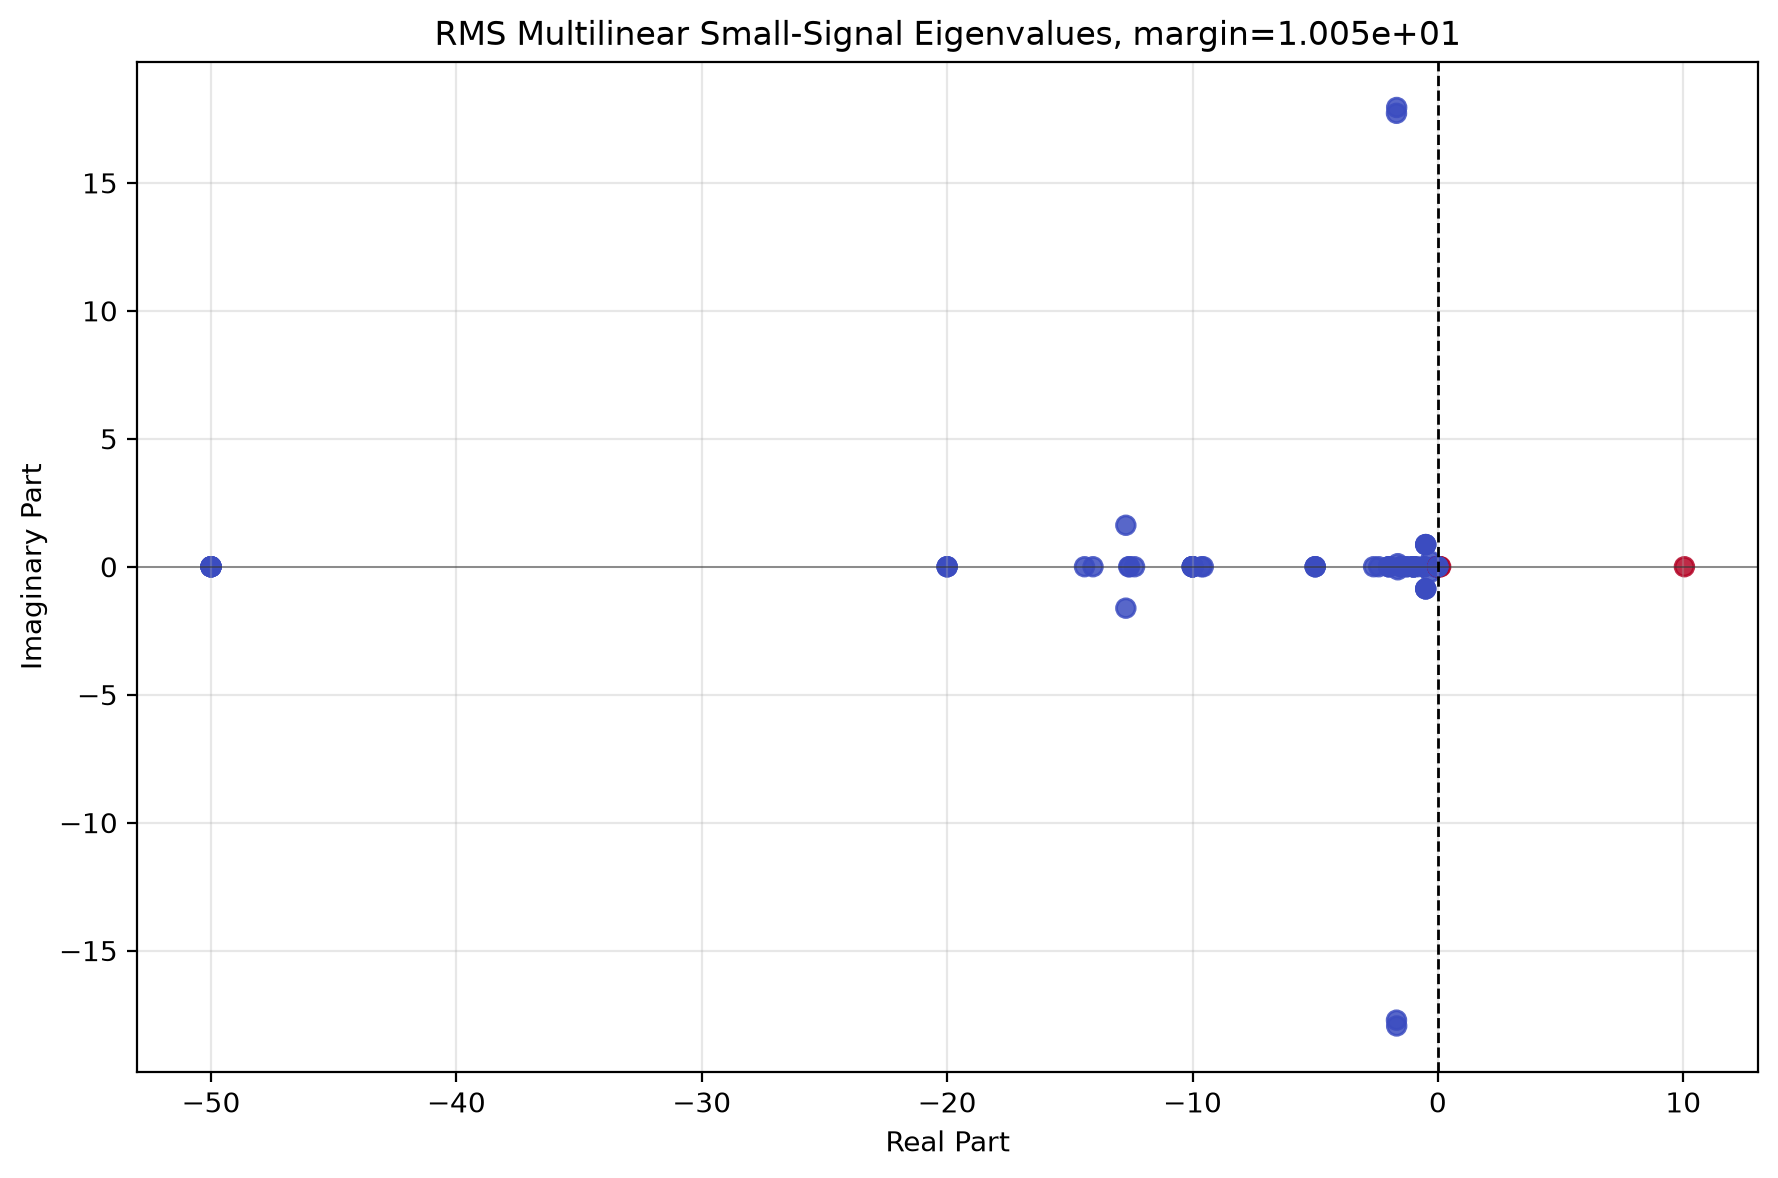
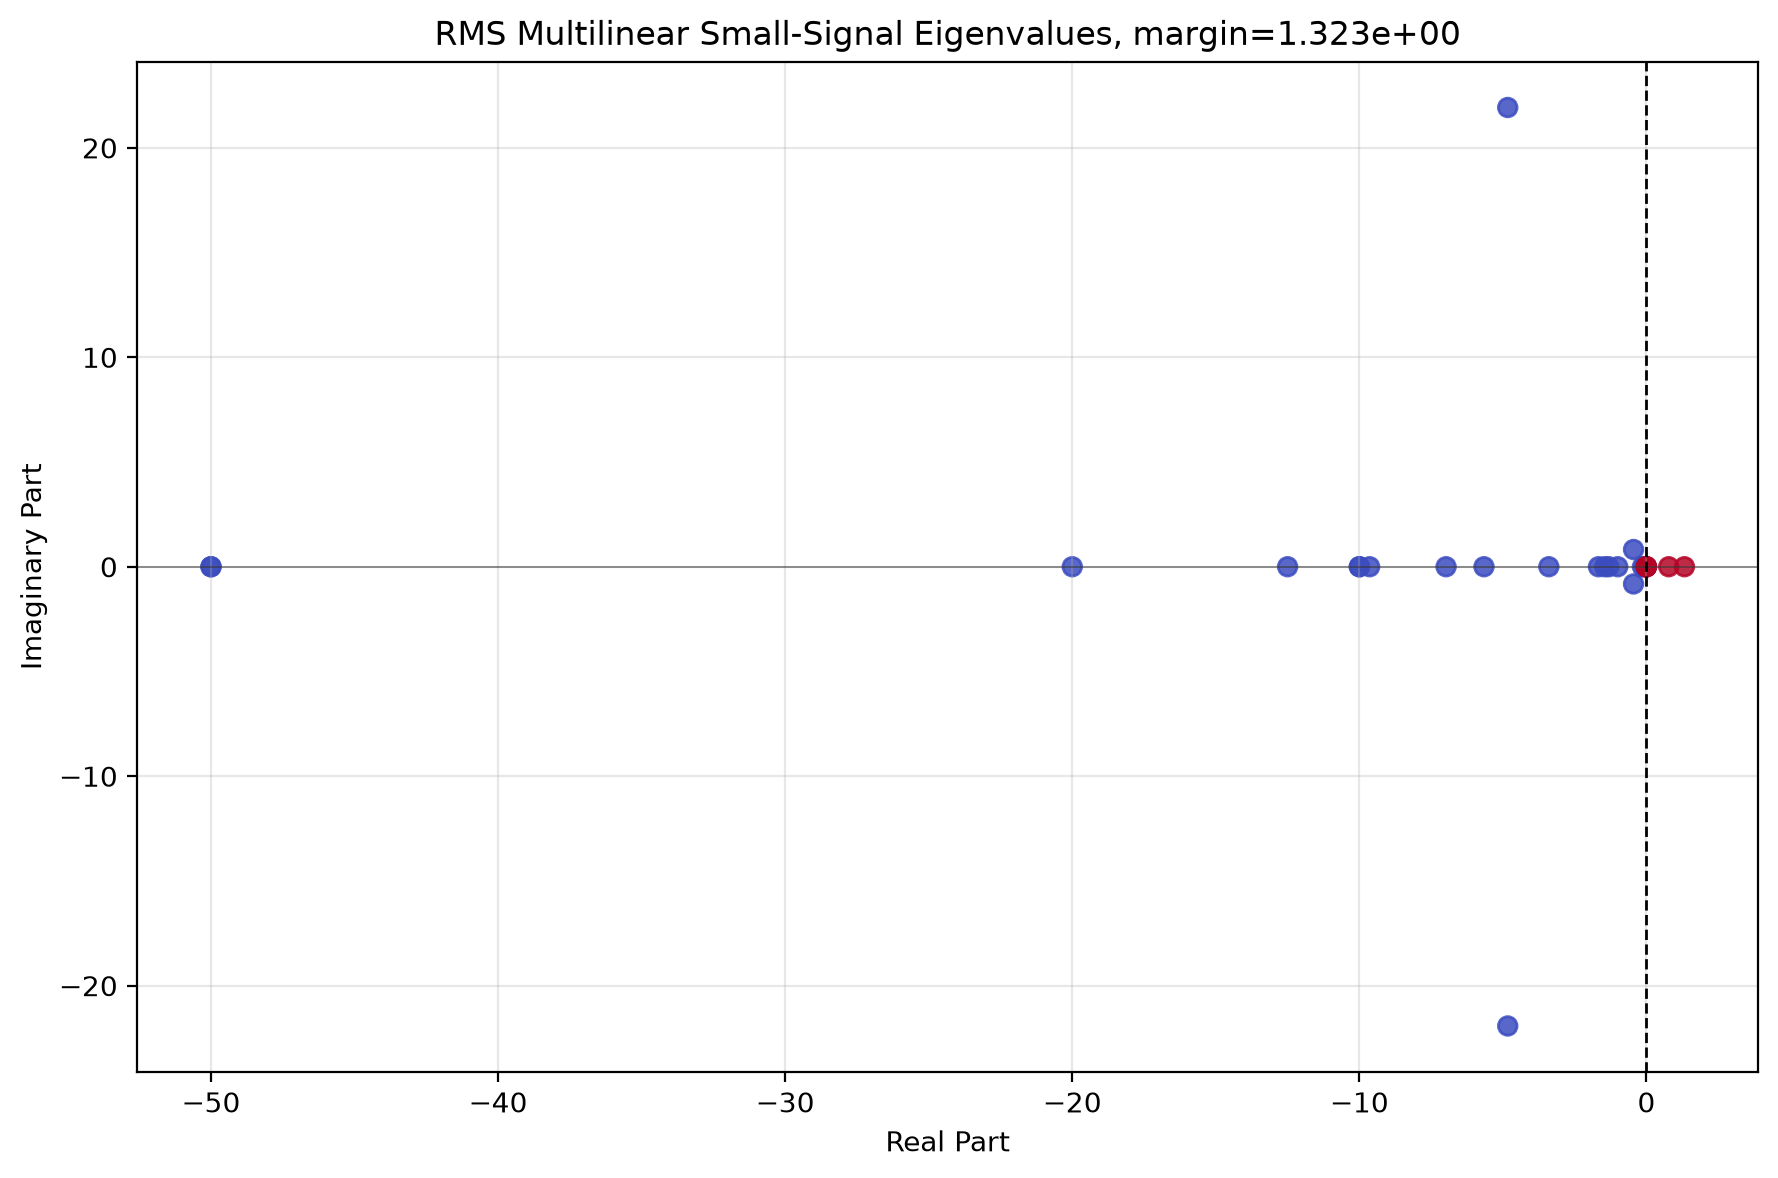
update: contingency via CLI args + show Floquet/RMS method in GUI

diff --git a/src/TensyGridEngine/gui/index.html b/src/TensyGridEngine/gui/index.html
@@ -178,6 +178,8 @@ tr:hover { background: rgba(0,133,152,0.03); }
 .badge.yellow { background: rgba(245,158,11,0.12); color: #d97706; }
 .badge.red { background: rgba(239,68,68,0.12); color: #dc2626; }
 .badge.blue { background: rgba(0,133,152,0.12); color: var(--blue); }
+.badge.floquet { background: rgba(139,92,246,0.12); color: #7c3aed; }
+.badge.rms { background: rgba(0,133,152,0.12); color: var(--blue); }
 canvas {
   width: 100%;
   background: var(--bg);
@@ -560,6 +562,7 @@ canvas {
             </div>
             <div style="text-align:center;margin-top:16px">
               <div id="status-text" class="status-text stable">—</div>
+              <div id="study-badge-container" style="margin-top:12px"></div>
             </div>
           </div>
 
@@ -590,6 +593,10 @@ canvas {
               <div class="metric">
                 <div id="elapsed-time" class="metric-value">—</div>
                 <div class="metric-label">Computation Time</div>
+              </div>
+              <div class="metric">
+                <div id="study-type" class="metric-value" style="font-size:20px;line-height:1.6">—</div>
+                <div class="metric-label">Analysis Method</div>
               </div>
             </div>
           </div>
@@ -773,6 +780,18 @@ let eigZoom = { level: 1 };
 let eigZoomFull = { level: 1 };
 let dampingZoom = { level: 1 };
 
+function studyLabel(study) {
+  return String(study || '').toUpperCase() === 'EMT' ? 'Floquet' : 'RMS';
+}
+
+function studyBadgeClass(study) {
+  return String(study || '').toUpperCase() === 'EMT' ? 'floquet' : 'rms';
+}
+
+function studyBadge(study) {
+  return `<span class="badge ${studyBadgeClass(study)}">${studyLabel(study)}</span>`;
+}
+
 document.querySelectorAll('.tab').forEach(tab => {
   tab.addEventListener('click', () => {
     document.querySelectorAll('.tab').forEach(t => t.classList.remove('active'));
@@ -844,6 +863,7 @@ async function loadResults() {
             </div>
           </div>
           <div class="result-actions">
+            ${studyBadge(r.study)}
             ${statusBadge}
             <button class="btn btn-danger btn-sm" onclick="event.stopPropagation(); deleteResult('${r.filename}')">Delete</button>
           </div>
@@ -914,7 +934,7 @@ async function runSimulation() {
   btn.disabled = true;
   cancelBtn.style.display = 'inline-flex';
   statusEl.className = 'status-indicator running';
-  statusEl.innerHTML = '<span class="spinner"></span><span>Running simulation...</span>';
+  statusEl.innerHTML = `<span class="spinner"></span><span>Running ${studyLabel(studyType)} simulation...</span>`;
   startSimulationTimer();
   
   document.getElementById('log-card').style.display = 'block';
@@ -973,7 +993,9 @@ async function pollStatus() {
     } else if (status.status === 'completed') {
       stopSimulationTimer();
       statusEl.className = 'status-indicator completed';
-      statusEl.innerHTML = '<span>Completed</span>';
+      const studySelect = document.getElementById('study-select');
+      const studyType = studySelect ? studySelect.value : 'RMS';
+      statusEl.innerHTML = `<span>Completed — ${studyLabel(studyType)}</span>`;
       btn.disabled = false;
       cancelBtn.style.display = 'none';
       
@@ -984,8 +1006,7 @@ async function pollStatus() {
       await loadResults();
       
       const gridName = status.grid;
-      const studySelect = document.getElementById('study-select');
-      const wantedStudy = (studySelect ? studySelect.value : 'RMS') === 'EMT' ? 'EMT' : 'RMS';
+      const wantedStudy = studyType === 'EMT' ? 'EMT' : 'RMS';
       const results = await (await fetch('/api/results')).json();
       const latestResult = results.find(r => r.grid_name === gridName && (r.study || 'RMS') === wantedStudy)
         || results.find(r => r.grid_name === gridName);
@@ -1029,6 +1050,16 @@ function displayResults(data) {
   const statusText = document.getElementById('status-text');
   statusText.textContent = data.status;
   statusText.className = 'status-text ' + data.status.toLowerCase();
+
+  const studyBadgeContainer = document.getElementById('study-badge-container');
+  if (studyBadgeContainer) {
+    studyBadgeContainer.innerHTML = `${studyBadge(data.study)} <span style="font-size:11px;color:var(--muted);margin-left:6px">Analysis Method</span>`;
+  }
+  const studyTypeEl = document.getElementById('study-type');
+  if (studyTypeEl) {
+    studyTypeEl.textContent = studyLabel(data.study);
+    studyTypeEl.style.color = String(data.study || '').toUpperCase() === 'EMT' ? '#7c3aed' : 'var(--blue)';
+  }
   
   document.getElementById('light-green').classList.toggle('active', data.status === 'STABLE');
   document.getElementById('light-yellow').classList.toggle('active', data.status === 'MARGINAL');

diff --git a/src/TensyGridEngine/run_contingency.py b/src/TensyGridEngine/run_contingency.py
@@ -38,11 +38,15 @@ def main():
     parser.add_argument('--type', required=True, choices=['generator', 'line', 'transformer'],
                        help='Element type to disconnect')
     parser.add_argument('--element', required=True, help='Element index (e.g., gen_0, line_2, transformer_1)')
-
+    parser.add_argument('--study', default='RMS', type=str.upper, choices=['RMS', 'EMT'],
+                       help='Study type to run')
     args = parser.parse_args()
+    is_emt = args.study == 'EMT'
+    if is_emt:
+        import small_signal_analysis_main_emt as emt_main
 
     try:
-        grid = load_grid(args.grid)
+        grid = emt_main.load_grid(args.grid) if is_emt else load_grid(args.grid)
 
         element_idx = int(args.element.split("_")[1])
 
@@ -62,11 +66,16 @@ def main():
                 raise ValueError(f"Transformer index {element_idx} out of range ({len(trafos)} transformers)")
             trafos[element_idx].active = False
 
-        set_models(grid)
-        results = run_small_signal_analysis(grid)
+        if is_emt:
+            results = emt_main.run_emt_small_signal_analysis(grid)
+            pf_matrix = results["results"].participation_factors
+        else:
+            set_models(grid)
+            results = run_small_signal_analysis(grid)
+            pf_matrix = results["participation_factors"]
 
         eigenvalues = results["eigenvalues"]
-        pf_matrix = results["participation_factors"]
+        min_im = 1.0e-9 if is_emt else 0.1
 
         eigenvalues_list = [
             {"re": float(np.real(ev)), "im": float(np.imag(ev))}
@@ -75,20 +84,24 @@ def main():
 
         problem = results["problem"]
         var_to_device: dict[int, str] = {}
-        for dev, var_list in problem.get_device_vars_dict().items():
-            dev_name = dev.name if hasattr(dev, "name") else type(dev).__name__
-            for var in var_list:
-                var_to_device[var.uid] = dev_name
+        if is_emt:
+            state_vars = list(problem.get_state_vars())
+        else:
+            state_vars = list(problem.state_and_algebraic_vars)
+            for dev, var_list in problem.get_device_vars_dict().items():
+                dev_name = dev.name if hasattr(dev, "name") else type(dev).__name__
+                for var in var_list:
+                    var_to_device[var.uid] = dev_name
 
         state_var_names = [
             str(v.name) if hasattr(v, "name") else f"state_{i}"
-            for i, v in enumerate(problem.state_and_algebraic_vars)
+            for i, v in enumerate(state_vars)
         ]
 
         critical_modes = []
         for i, ev in enumerate(eigenvalues):
             re, im = float(np.real(ev)), float(np.imag(ev))
-            if abs(im) <= 0.1:
+            if abs(im) <= min_im:
                 continue
             damping = float(_damping(re, im))
 
@@ -97,10 +110,10 @@ def main():
                 pf_col = pf_matrix[:, i]
                 for j, var_name in enumerate(state_var_names):
                     if j < len(pf_col):
-                        v = problem.state_and_algebraic_vars[j]
+                        v = state_vars[j]
                         participation.append({
                             "variable": str(var_name),
-                            "device": var_to_device.get(v.uid, ""),
+                            "device": var_to_device.get(getattr(v, "uid", None), ""),
                             "value": float(pf_col[j]),
                         })
 
@@ -119,10 +132,12 @@ def main():
 
         result = {
             "grid_name": args.grid,
+            "study": args.study,
             "stable": results["stable"],
             "margin": results["margin"],
             "n_eigenvalues": len(eigenvalues),
-            "n_state_vars": len(results["problem"].get_x0()),
+            "n_state_vars": (problem.get_states_number() + problem.get_diff_var_number()
+                             if is_emt else len(problem.get_x0())),
             "eigenvalues": eigenvalues_list,
             "critical_modes": critical_modes[:10],
             "grid_info": {

diff --git a/src/TensyGridEngine/gui/dashboard.py b/src/TensyGridEngine/gui/dashboard.py
@@ -406,22 +406,18 @@ async def run_contingency(request: ContingencyRequest):
     
     _contingency_info = f"{request.contingency_type}:{request.contingency_element} on {request.grid_filename}"
     
-    env = os.environ.copy()
-    env["PYTHONPATH"] = str(PROJECT_ROOT / "src")
-    env["CONTINGENCY_GRID"] = request.grid_filename
-    env["CONTINGENCY_TYPE"] = request.contingency_type
-    env["CONTINGENCY_ELEMENT"] = request.contingency_element
-    env["CONTINGENCY_STUDY"] = request.study_type.upper()
-
     _remove_logs(_contingency_logs)
     _contingency_process, _contingency_logs = _spawn_logged(
         [
             str(VENV_PYTHON),
             str(CONTINGENCY_SCRIPT_PATH),
+            "--grid", request.grid_filename,
+            "--type", request.contingency_type,
+            "--element", request.contingency_element,
+            "--study", request.study_type.upper(),
         ],
         prefix="contingency",
         cwd=TENSYGRID_DIR,
-        env=env,
     )
 
     return {
